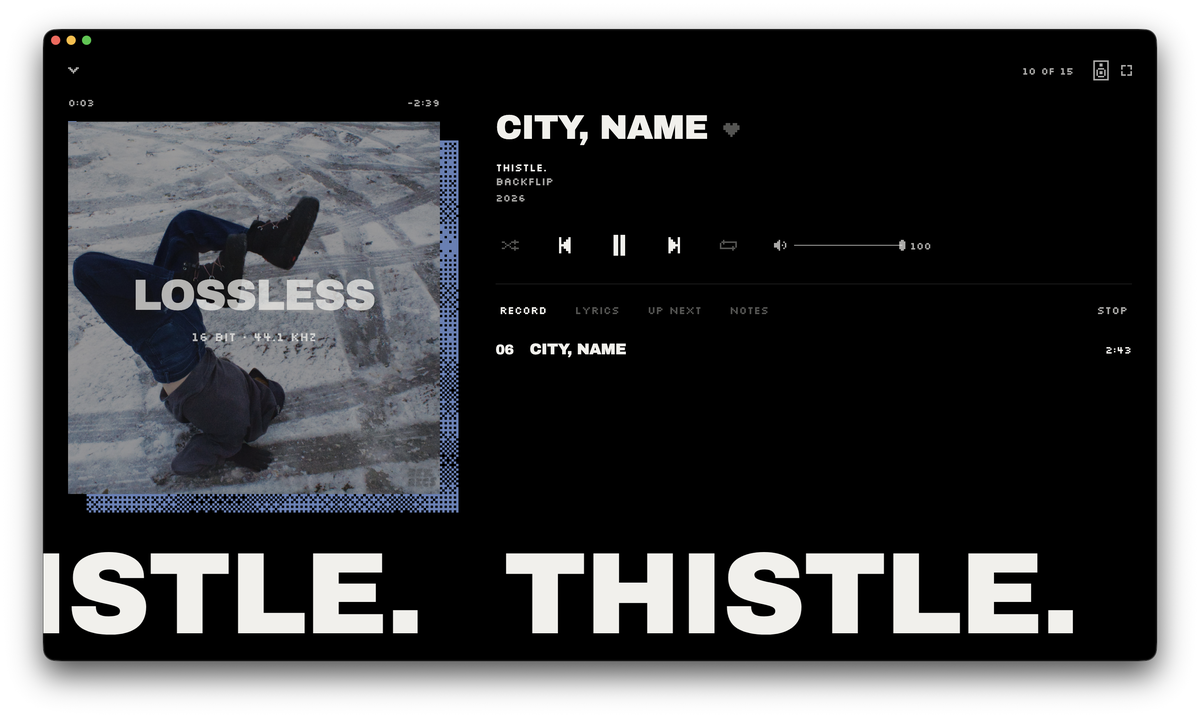
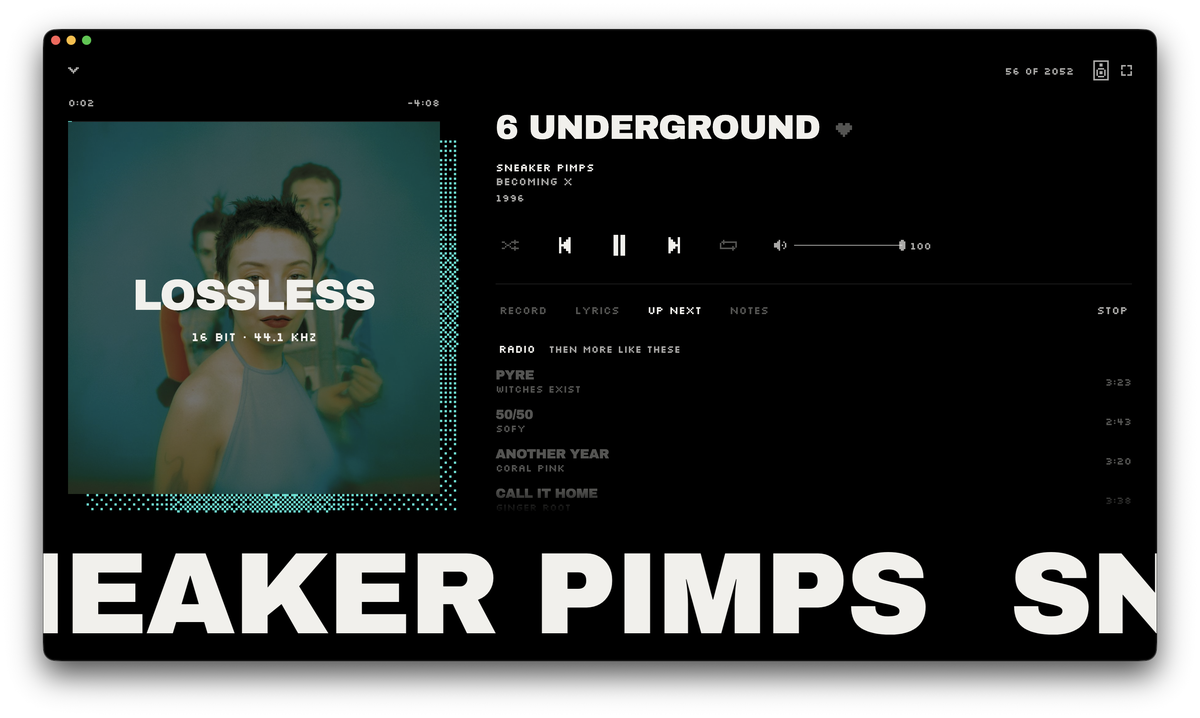
The computer's lossless shot: Sneaker Pimps' 6 Underground, up next beside it (Bronson's pick)
Claude-Session: https://claude.ai/code/session_01T48rJDrdEQ4qc22rqFbhba

diff --git a/README.md b/README.md
@@ -87,7 +87,7 @@ Want something? [Ask for it](https://github.com/inkappdev/ink-music/issues): wha
 </p>
 <p align="center">
   <img src=".github/desktop/artist.png" width="49%" alt="An artist's page on a computer: Wild Nothing's photo in dither, top songs, records, what's said of them" />
-  <img src=".github/desktop/record.png" width="49%" alt="The player's record side: the cover marked lossless, 16 bit at 44.1 kHz, the record's songs" />
+  <img src=".github/desktop/record.png" width="49%" alt="The player on a computer: Sneaker Pimps' 6 Underground, the cover marked lossless, 16 bit at 44.1 kHz, radio's songs up next" />
 </p>
 
 The same ink music, made for a big screen and a keyboard:
